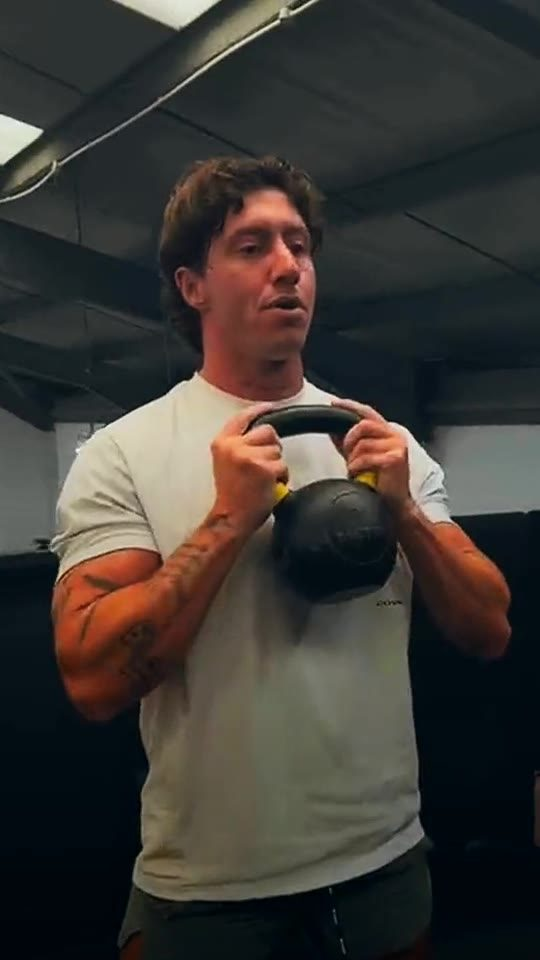
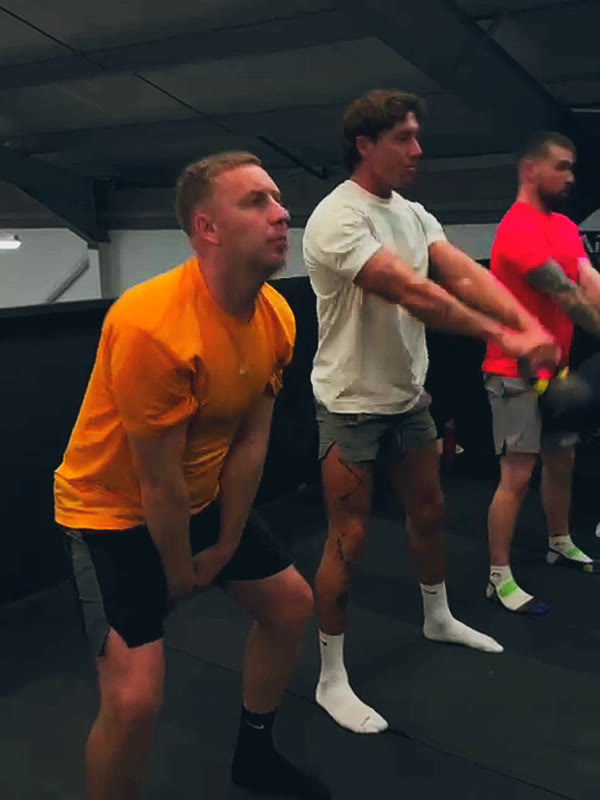
Why kettlebells: sharper photos, four different people
Claude-Session: https://claude.ai/code/session_01GB6whwA2aYPEgFXN47NhAr

diff --git a/src/content/images.ts b/src/content/images.ts
@@ -38,10 +38,10 @@ export const images = {
    * "Why kettlebells" tiles (2026-10-23): stills from the owner's class footage,
    * taken from the hero film (faces in frame, no third-party signage).
    */
-  whyStrength: { src: "/images/why/strength.jpg", width: 540, height: 960, alt: "A man in a green T-shirt locks a kettlebell out overhead", position: "50% 30%" },
-  whyConditioning: { src: "/images/why/conditioning.jpg", width: 540, height: 960, alt: "A class swinging kettlebells together in a training studio", position: "50% 55%" },
-  whyMovement: { src: "/images/why/movement.jpg", width: 540, height: 960, alt: "A man in a green T-shirt holds a kettlebell at his chest in a deep squat", position: "50% 55%" },
-  whyAdaptable: { src: "/images/why/adaptable.jpg", width: 540, height: 960, alt: "A man in a white T-shirt holds a single kettlebell at his chest", position: "50% 35%" },
+  whyStrength: { src: "/images/why/strength.jpg", width: 600, height: 800, alt: "A man in a green T-shirt presses a kettlebell overhead in a group class", position: "50% 40%" },
+  whyConditioning: { src: "/images/why/conditioning.jpg", width: 600, height: 800, alt: "A man in a teal T-shirt at the bottom of a kettlebell swing, with the class swinging behind him", position: "50% 50%" },
+  whyMovement: { src: "/images/why/movement.jpg", width: 600, height: 800, alt: "A woman holds a kettlebell at her chest at the bottom of a deep goblet squat", position: "50% 50%" },
+  whyAdaptable: { src: "/images/why/adaptable.jpg", width: 600, height: 800, alt: "Three people swing kettlebells side by side", position: "50% 40%" },
 } satisfies Record<string, Photo>;
 
 export type ImageRole = keyof typeof images;

diff --git a/DESIGN.md b/DESIGN.md
@@ -21,7 +21,7 @@ how to use them.
 - **Brand name (2026-10-23):** RAENG Fitness everywhere (footer, titles, metadata, home link label). Online coaching card has a "Train anywhere" type panel in place of a photo so the three cards align.
 - **Conversion tweaks (2026-10-23):** hero has one button (Book now) with "Explore coaching" as a white text link; on phones (<768px) a Book now bar (times, from-price, button) is fixed to the bottom once the hero has scrolled away, hidden over the footer (`StickyBook`).
 - **Home order (2026-10-23, owner):** hero → Meet your coach (white) → Why kettlebells (cream) → 3 classes a week (white) → Find your training (cream) → Memberships (white) → Find us and book (cream). Supersedes the order listed below.
-- **Why kettlebells (option A, 2026-10-23):** four photo tiles (stills from the class footage) with white words on the picture; 2×2 on phones, four across on desktop.
+- **Why kettlebells (option A, 2026-10-23):** four photo tiles with white words on the picture; 2×2 on phones, four across on desktop. Photos (owner-approved 2026-10-23): the sharpest frames from the original class clips (c12 overhead press, c6 swing, c6 deep goblet squat, c5 three-person swing), four different people, cropped 3:4 at 600×800 so no other gym's signage shows, graded like the hero film.
 - **Class week (option E, 2026-10-23):** "3 classes a week", one bordered card per class (part of day, day, time, Book), then venue · from-price.
 - **Home memberships layout (2026-10-22):** one card per plan (Starter, Regular, Dedicated, Pay as you go): swipe sideways on phones and tablets with the next card peeking in, a "01 / 04" counter, segmented progress and Previous / Next (words, no arrows); four across from 1024px. Same content as before, only the layout changed.
 - **Hero words have no box (2026-10-22, latest):** the headline, line and buttons sit straight on the film in white (white Book now button, white-outline Explore coaching), bottom-left; the film is graded lifted, contrasty and slightly cool (owner's pick C), with only the lower part of each frame darkened so the white text stays readable. No panel, tint or gradient.
